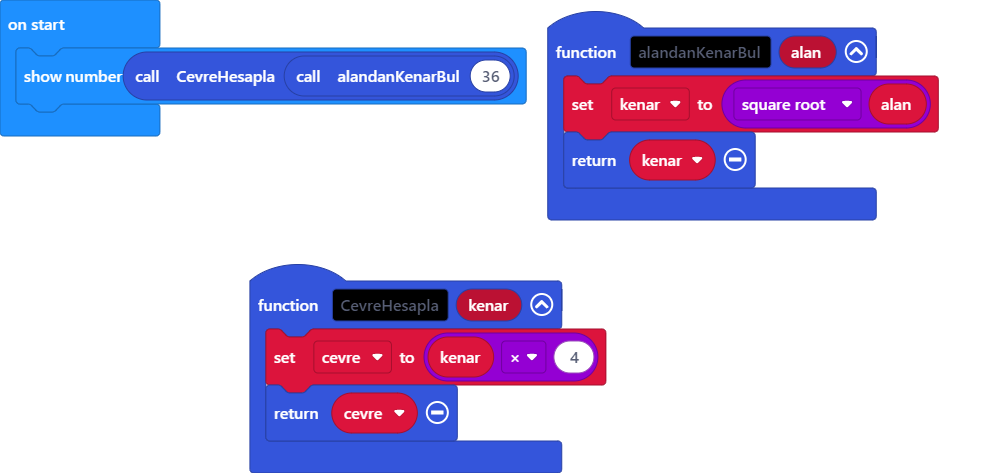
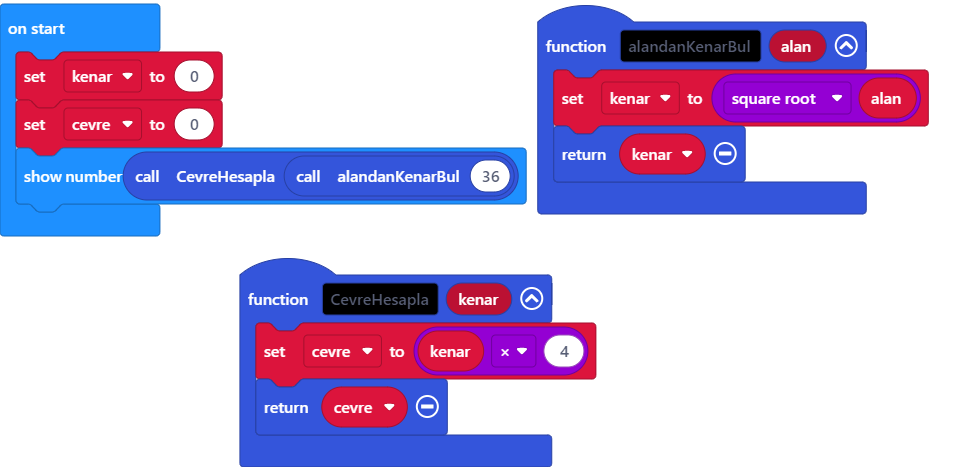
Update main.blocks, main.ts

Changed region(s): [[0.0, 0.0, 0.949, 0.5096], [0.2449, 0.5396, 0.6122, 1.0], [0.551, 0.4497, 0.8878, 0.4797]]

diff --git a/main.ts b/main.ts
@@ -6,6 +6,8 @@ function alandanKenarBul (alan: number) {
     kenar = Math.sqrt(alan)
     return kenar
 }
-let kenar = 0
 let cevre = 0
+let kenar = 0
+kenar = 0
+cevre = 0
 basic.showNumber(CevreHesapla(alandanKenarBul(36)))
